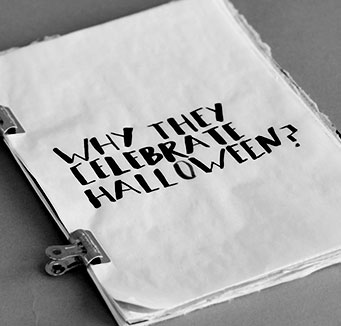
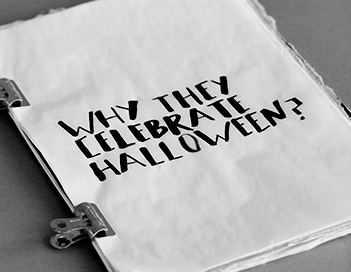
changes in images responsive <a>tag element

diff --git a/index.html b/index.html
@@ -15,26 +15,26 @@
   </div>
 <div class="main">
 
-    <a href="singlepage.html">  <img class="picture" src="portfolioimages/halloweensmall.jpg" onmouseover="this.src='portfolioimages/halloweenColor.jpg';"
+    <a class="images" href="singlepage.html">  <img class="picture" src="portfolioimages/halloweensmall.jpg" onmouseover="this.src='portfolioimages/halloweenColor.jpg';"
     onmouseout="this.src='portfolioimages/halloweensmall.jpg';"> </img></a>
 
 
-          <a href="hiddenvoices.html"> <img class="picture" src="portfolioimages/hiddenvoicesmall.jpg" onmouseover="this.src='portfolioimages/hiddenvoicescolor.jpg';"
+          <a class="images" href="hiddenvoices.html"> <img class="picture" src="portfolioimages/hiddenvoicesmall.jpg" onmouseover="this.src='portfolioimages/hiddenvoicescolor.jpg';"
           onmouseout="this.src='portfolioimages/hiddenvoicesmall.jpg';"> </img> </a>
 
 
-              <a href="singlepage.html"> <img class="picture" src="portfolioimages/contrastsmall.jpg" onmouseover="this.src='portfolioimages/contrastsmallColor.jpg';"
+              <a class="images" href="singlepage.html"> <img class="picture" src="portfolioimages/contrastsmall.jpg" onmouseover="this.src='portfolioimages/contrastsmallColor.jpg';"
               onmouseout="this.src='portfolioimages/contrastsmall.jpg';"> </img> </a>
 
 
-              <a href="noise.html"> <img class="picture"src="portfolioimages/noisesmall.jpg" alt="Replica" onmouseover="this.src='portfolioimages/noisesmallColor.jpg';"
+              <a  class="images"href="noise.html"> <img class="picture"src="portfolioimages/noisesmall.jpg" alt="Replica" onmouseover="this.src='portfolioimages/noisesmallColor.jpg';"
               onmouseout="this.src='portfolioimages/noisesmall.jpg';"> </img></a>
 
 
-                  <a href="singlepage.html"> <img class="picture"src="portfolioimages/phdsmall.jpg" alt="PHD" > </a>
+                  <a class="images"href="singlepage.html"> <img class="picture"src="portfolioimages/phdsmall.jpg" alt="PHD" > </a>
 
 
-                      <a href="singlepage.html"> <img class="picture"src="portfolioimages/avidheerasmall.jpg" alt="AviandDheera" > </a>
+                      <a  class="images"href="singlepage.html"> <img class="picture"src="portfolioimages/avidheerasmall.jpg" alt="AviandDheera" > </a>
 
 </div>
 

diff --git a/style2.css b/style2.css
@@ -15,9 +15,10 @@ justify-content: space-between;
   color:#929292;
   text-decoration: none;
 }
-a{
+.images{
   display:block;
-
+width:30%;
+padding:15px;
 }
 .header{
   max-width: 100%;
@@ -37,7 +38,7 @@ a{
 }
 .picture{
 width:100%;
-  padding:8px;
+
 
 }
 .hovertext{
